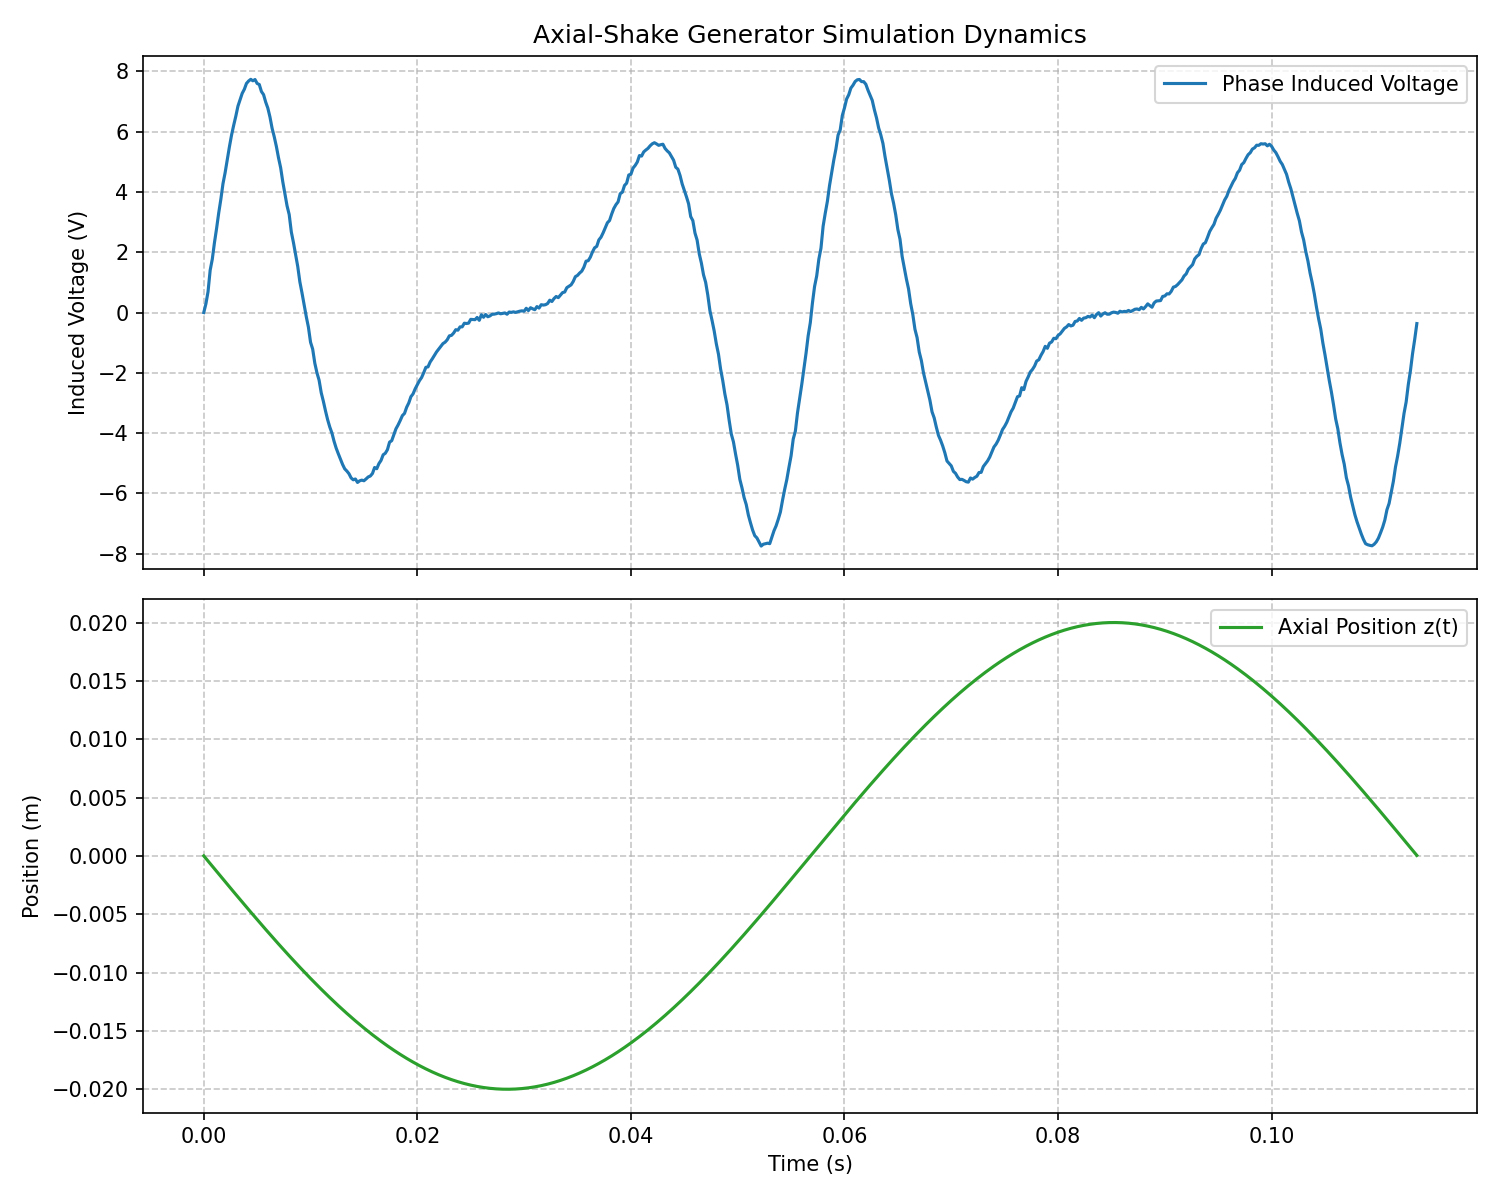
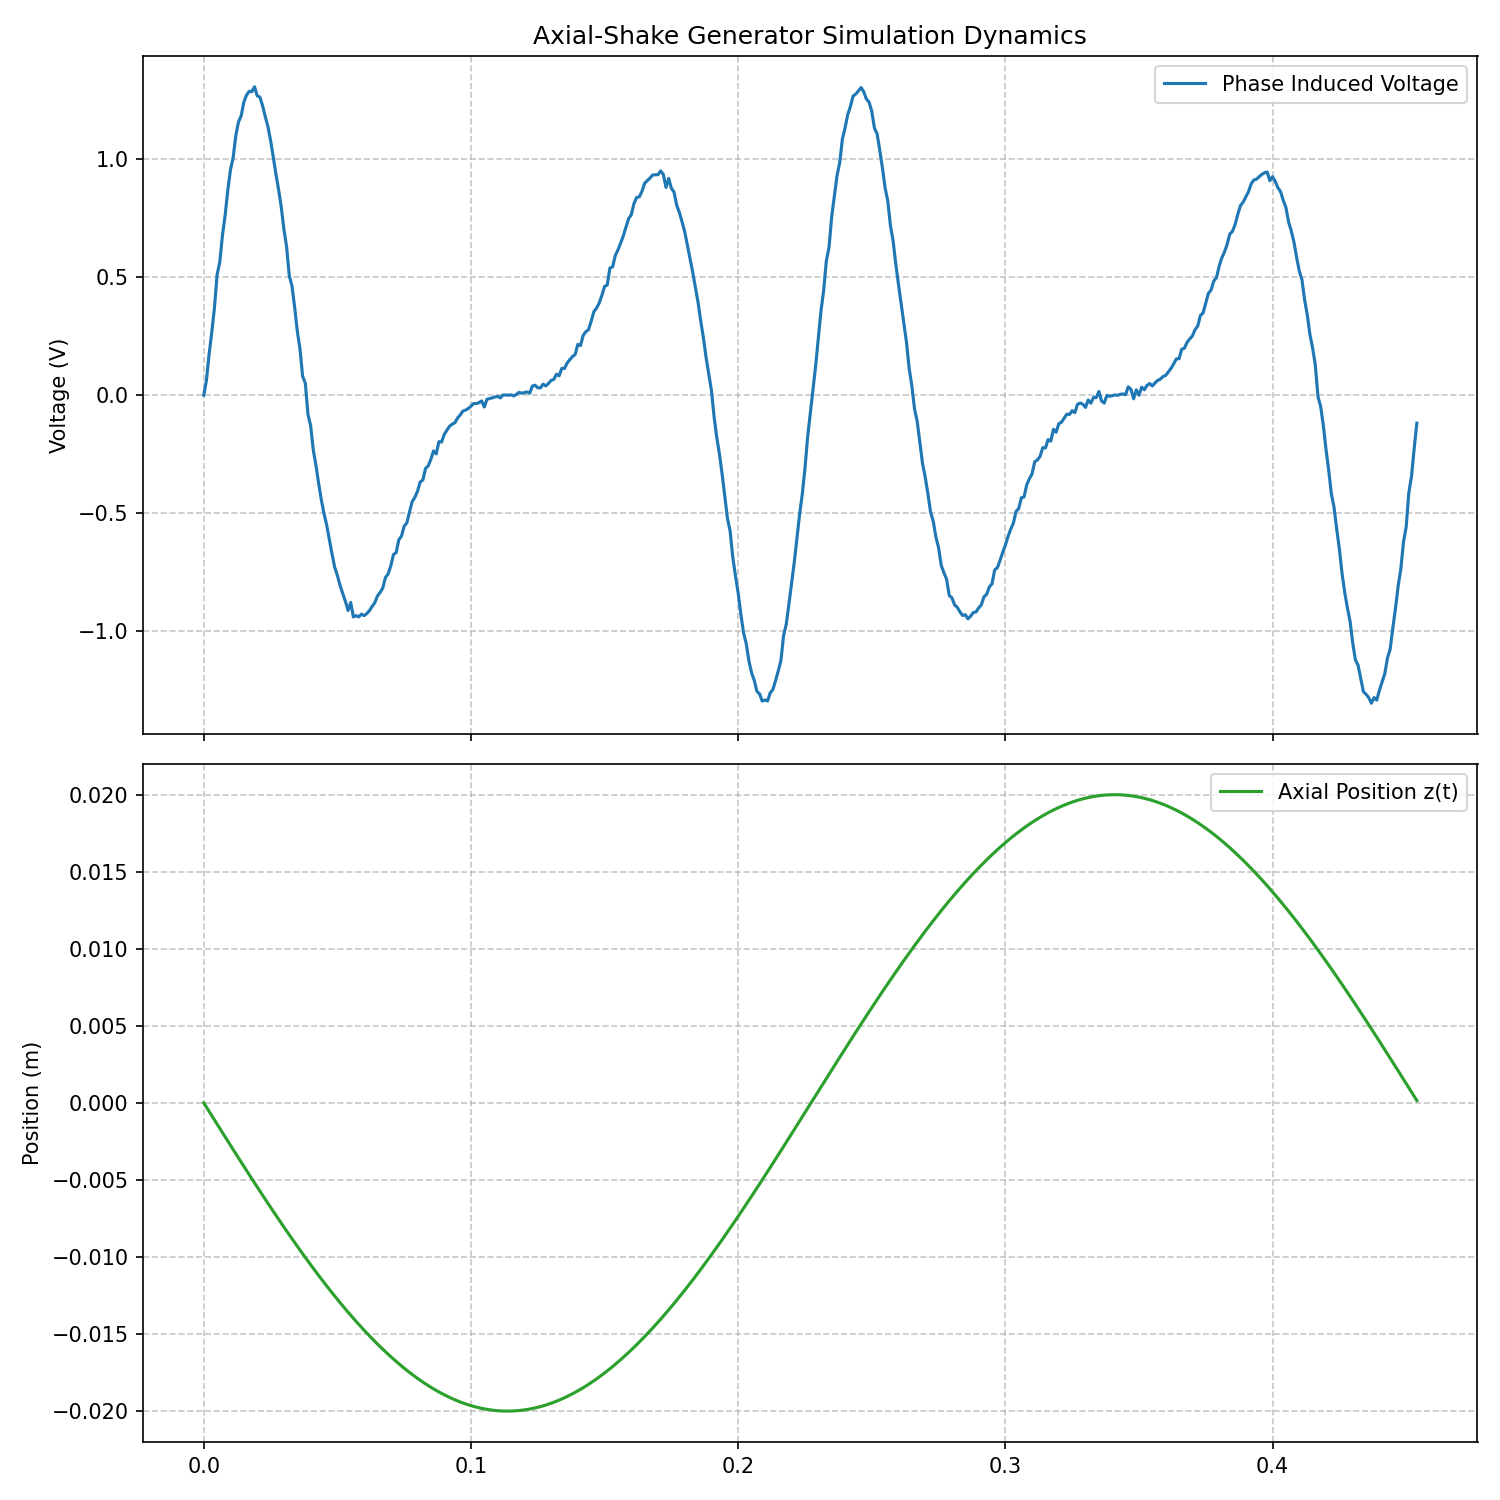
updates moving the fem into simple motion to make the new one using more complex dynamics

diff --git a/readme.md b/readme.md
@@ -71,7 +71,7 @@ Once induced voltage is established, the usable electrical power is determined b
 
 $$P = \frac{V_{\text{rms}}^2}{R_{\text{internal}}}$$
 
-This relationship drives one of the main trade-offs: increasing turns raises induced voltage but also increases resistance due to longer wire length. The optimal design maximizes `V^2/R`, not just peak voltage.
+This relationship drives one of the main trade-offs: increasing turns raises induced voltage but also increases resistance due to longer wire length. The optimal design maximizes `V/R`, not just peak voltage.
 
 > [!important]
 > The generator design was constrained by the IsoPod system requirements:
@@ -100,9 +100,16 @@ A pole pitch of `10 mm` was selected, matching the pole length and maintaining d
 
 Maintaining slot overlap throughout the motion range produces a more consistent induced voltage waveform, where the primary amplitude is dominated by the mechanical velocity term:
 
+
 $$V \propto \frac{dz}{dt}$$
 
 The symmetric pole arrangement also reduces unwanted harmonic content compared with asymmetric topologies. Finally, no high-permeability materials were introduced into the armature or stator structure. The stator consists of copper windings, while the magnetic poles use `N52 Neodymium` permanent magnets.
+
+Given the 4 slots within the stator and the 8 poles within the armature, the measured frequency relationship suggests:
+
+$$f_{\text{electrical}} \approx 4 \times f_{\text{mechanical}}$$
+
+This is consistent with the pole pitch and the number of magnetic cycles encountered per mechanical oscillation.
 
 ## Numerical Model
 
@@ -124,10 +131,10 @@ This was then used to calculate the RMS voltage, and using the generator's inter
 > [!IMPORTANT]
 > The model was configured with the following parameters:
 > - Temperature: `293.15 K`, Time step: `200 us`
-> - Mechanical Shaking Frequency: `9 Hz`, Electrical Shaking Frequency: `36 Hz`
+> - Mechanical Shaking Frequency: `2.2 Hz`, Electrical Shaking Frequency: `8.8 Hz`
 > - peak-to-peak travel: `40 mm`
 > - Pole Coercivity: `956 kA/m`, Pole Permeability: `1.05 ∅`
-> - Slot Conductivity: `60.07 MS/m`, Slot Permeability: `1.0 ∅`, Fill Factor: `0.7 ∅`
+> - Slot Conductivity: `60.07 MS/m`, Slot Permeability: `1.0 ∅`, Fill Factor: `0.47 ∅`, Turns: `184`
 
 <div align="center">
   <img src="04_media/magnitude_of_b_analog_z.png" alt="|B| vs Z" style="max-width:600px;">
@@ -137,9 +144,9 @@ This was then used to calculate the RMS voltage, and using the generator's inter
 > [!IMPORTANT]
 > The quasi-transient simulation predicted:
 > - Time: `0.11 s`, Time steps: `112`
-> - Peak voltage: `7.84 V`, RMS Voltage: `4.04 V` 
-> - Positive Rate: `737 V/s`, Negative Rate: `-1.32 V/s`
-> - Resistance: `33.57 Ω`, Power: `0.50 W` 
+> - Peak voltage: `1.31 V`, RMS Voltage: `0.68 V` 
+> - Positive Rate: `35.10 V/s`, Negative Rate: `-49.57 V/s`
+> - Resistance: `22.54 Ω`, Power: `20.3 mW` 
 
 <div align="center">
   <img src="04_media/FEM_induced_voltage_plot.png" alt="Induced voltage vs time" style="max-width:600px;">
@@ -154,9 +161,6 @@ The generator was printed out of ABS on a Voron 2.4. The armature consisted of a
 
 The stator consisted of `4` coils with `180` turns per coil of `0.2 mm` enameled copper wire, with each coil wound in the opposite direction to the last as described above. The coils were secured in place with `10 mm` and `5 mm` thick Kapton tape, with the first and last layers of the coil being wrapped.
 
-> [!important]
-> The prototype had a much lower fill factor than the simulation. The simulation assumed a fill factor of `0.7`, resulting in `274` turns per coil, compared to `180` turns in the prototype.
-
 The restoring magnets were flat `12 mm x 3 mm` neodymium magnets. The generator stator was split into two pieces: the main piece, which housed the coils and one restoring magnet, and the cap, which held the other restoring magnet and was attached via `3` x `M3 x 20 mm` bolts. The two outputs of the generator were secured to the side and then extended with `~1.25 mm` stranded copper wire.
 
 <div align="center">
@@ -167,7 +171,7 @@ The restoring magnets were flat `12 mm x 3 mm` neodymium magnets. The generator 
 
 ## Results
 
-The completed generator was tested by hand-shaking at a measured electrical frequency of `8.81 Hz` and hence `2.2 Hz`. The open-circuit voltage was recorded using an oscilloscope:
+The completed generator was tested by hand-shaking at a measured electrical frequency of `8.81 Hz` and hence mechanical frequency of `2.2 Hz` (the 4 coils produce 4 cycles per mechanical oscillation). The open-circuit voltage was recorded using an oscilloscope:
 
 > [!IMPORTANT]
 > The oscilloscope measurements:
@@ -181,17 +185,13 @@ The completed generator was tested by hand-shaking at a measured electrical freq
   <p><i>Figure 6: Voltage vs time trace @ 10V/div vertical, 50ms/div horizontal</i></p>
 </div>
 
-The measured waveform shown in `Figure 6` has a similar shape to the predicted waveform in `Figure 4`. However, the negative recovery appears stretched while still being a similar amplitude. This is most likely attributed to degradation of the prototype due to its usage as a demo item. Another notable observation is that the trace appears asymmetric in the rate of change, with a higher negative voltage rate than positive. This could be attributed to gravity assisting downward acceleration while opposing upward motion.
+The measured waveform shown in Figure 6 has a similar shape to the predicted waveform in Figure 4. However, the negative recovery appears stretched while still being a similar amplitude. This is most likely attributed to degradation of the prototype due to its usage as a demo item. Another notable observation is that the trace appears asymmetric in the rate of change, with a higher negative voltage rate than positive. This could be attributed to gravity assisting downward acceleration while opposing upward motion.
 
 # Validation
 
-The simulated power output was `0.48 W` whereas the measured power was `0.43-0.47 W`, which is reasonable within `~12%` but this is coincidental agreement. The peak voltages are much higher and the slew rate was significantly different, leading to the possible source being the idealized motion of the armature versus the realized motion.
+The simulated power output was `20.3 mW` whereas the measured power was `0.43-0.47 W`, which is a significant difference of `21.5x` The peak voltages are much higher and the slew rate was significantly different, leading to the possible source being the idealized motion of the armature versus the realized motion.
 
-A key observation is the frequency mismatch: the electrical frequency measured was `8.81 Hz`, while the mechanical armature frequency was only `2.2 Hz`. The 4 coils produce 4 cycles per mechanical oscillation, giving:
-
-$$f_{\text{electrical}} = 4 \times f_{\text{mechanical}} = 4 \times 2.2 \approx 8.81 \text{ Hz}$$
-
-If the armature acceleration was much higher than expected, the armature was most likely slamming into the end-caps due to the repulsion force not being high enough. The maximum velocity was most likely higher and hence:
+The simulation used a higher mechanical frequency but produced lower peak voltages. If the prototype's armature acceleration was much higher than expected, the armature was likely slamming into the end-caps due to the repulsion force not being high enough. The maximum velocity was most likely higher and hence:
 
 $$V \propto \frac{d\lambda}{dz}$$
 
@@ -203,10 +203,10 @@ $$V \propto \frac{d\lambda}{dz}$$
 Given this, a new model for the motion could be proposed that takes into consideration the magnetic repulsion force and the likely much higher mechanical acceleration but lower frequency, using an oscillating force function:
 
 $$F_{\text{magnetic}} = -\frac{dU}{dz}$$
-$$F_{\text{shaking}} = F \sin(\omega t + \phi)$$
+$$F_{\text{shaking}} = am\sin(\omega t + \phi)$$
 
 One approach would be to model the armature velocity as:
 
-$$\frac{dz}{dt} = \frac{F_{\text{magnetic}} + F_{\text{shaking}}}{m} \cos(\omega t + \phi)$$
+$$\frac{dz}{dt} = \int \frac{F_{\text{magnetic}} + F_{\text{shaking}}}{m} \, dt$$
 
-However, given the ability of `FemmMagneticSolver` to calculate the Maxwell stress tensor, the `F_{\text{magnetic}}` term will be obtained directly from the solver rather than using finite difference of the magnetic energy density over the z-axis. This decouples the solution from the displacement output, removing dynamic step sizes and leading to a more stable solution.
+However, given the ability of `FemmMagneticSolver` to calculate the Maxwell stress tensor, the $F_{\text{magnetic}}$ term will be obtained directly from the solver rather than using finite difference of the magnetic energy density over the z-axis. This decouples the solution from the displacement output, removing dynamic step sizes and leading to a more stable solution.
